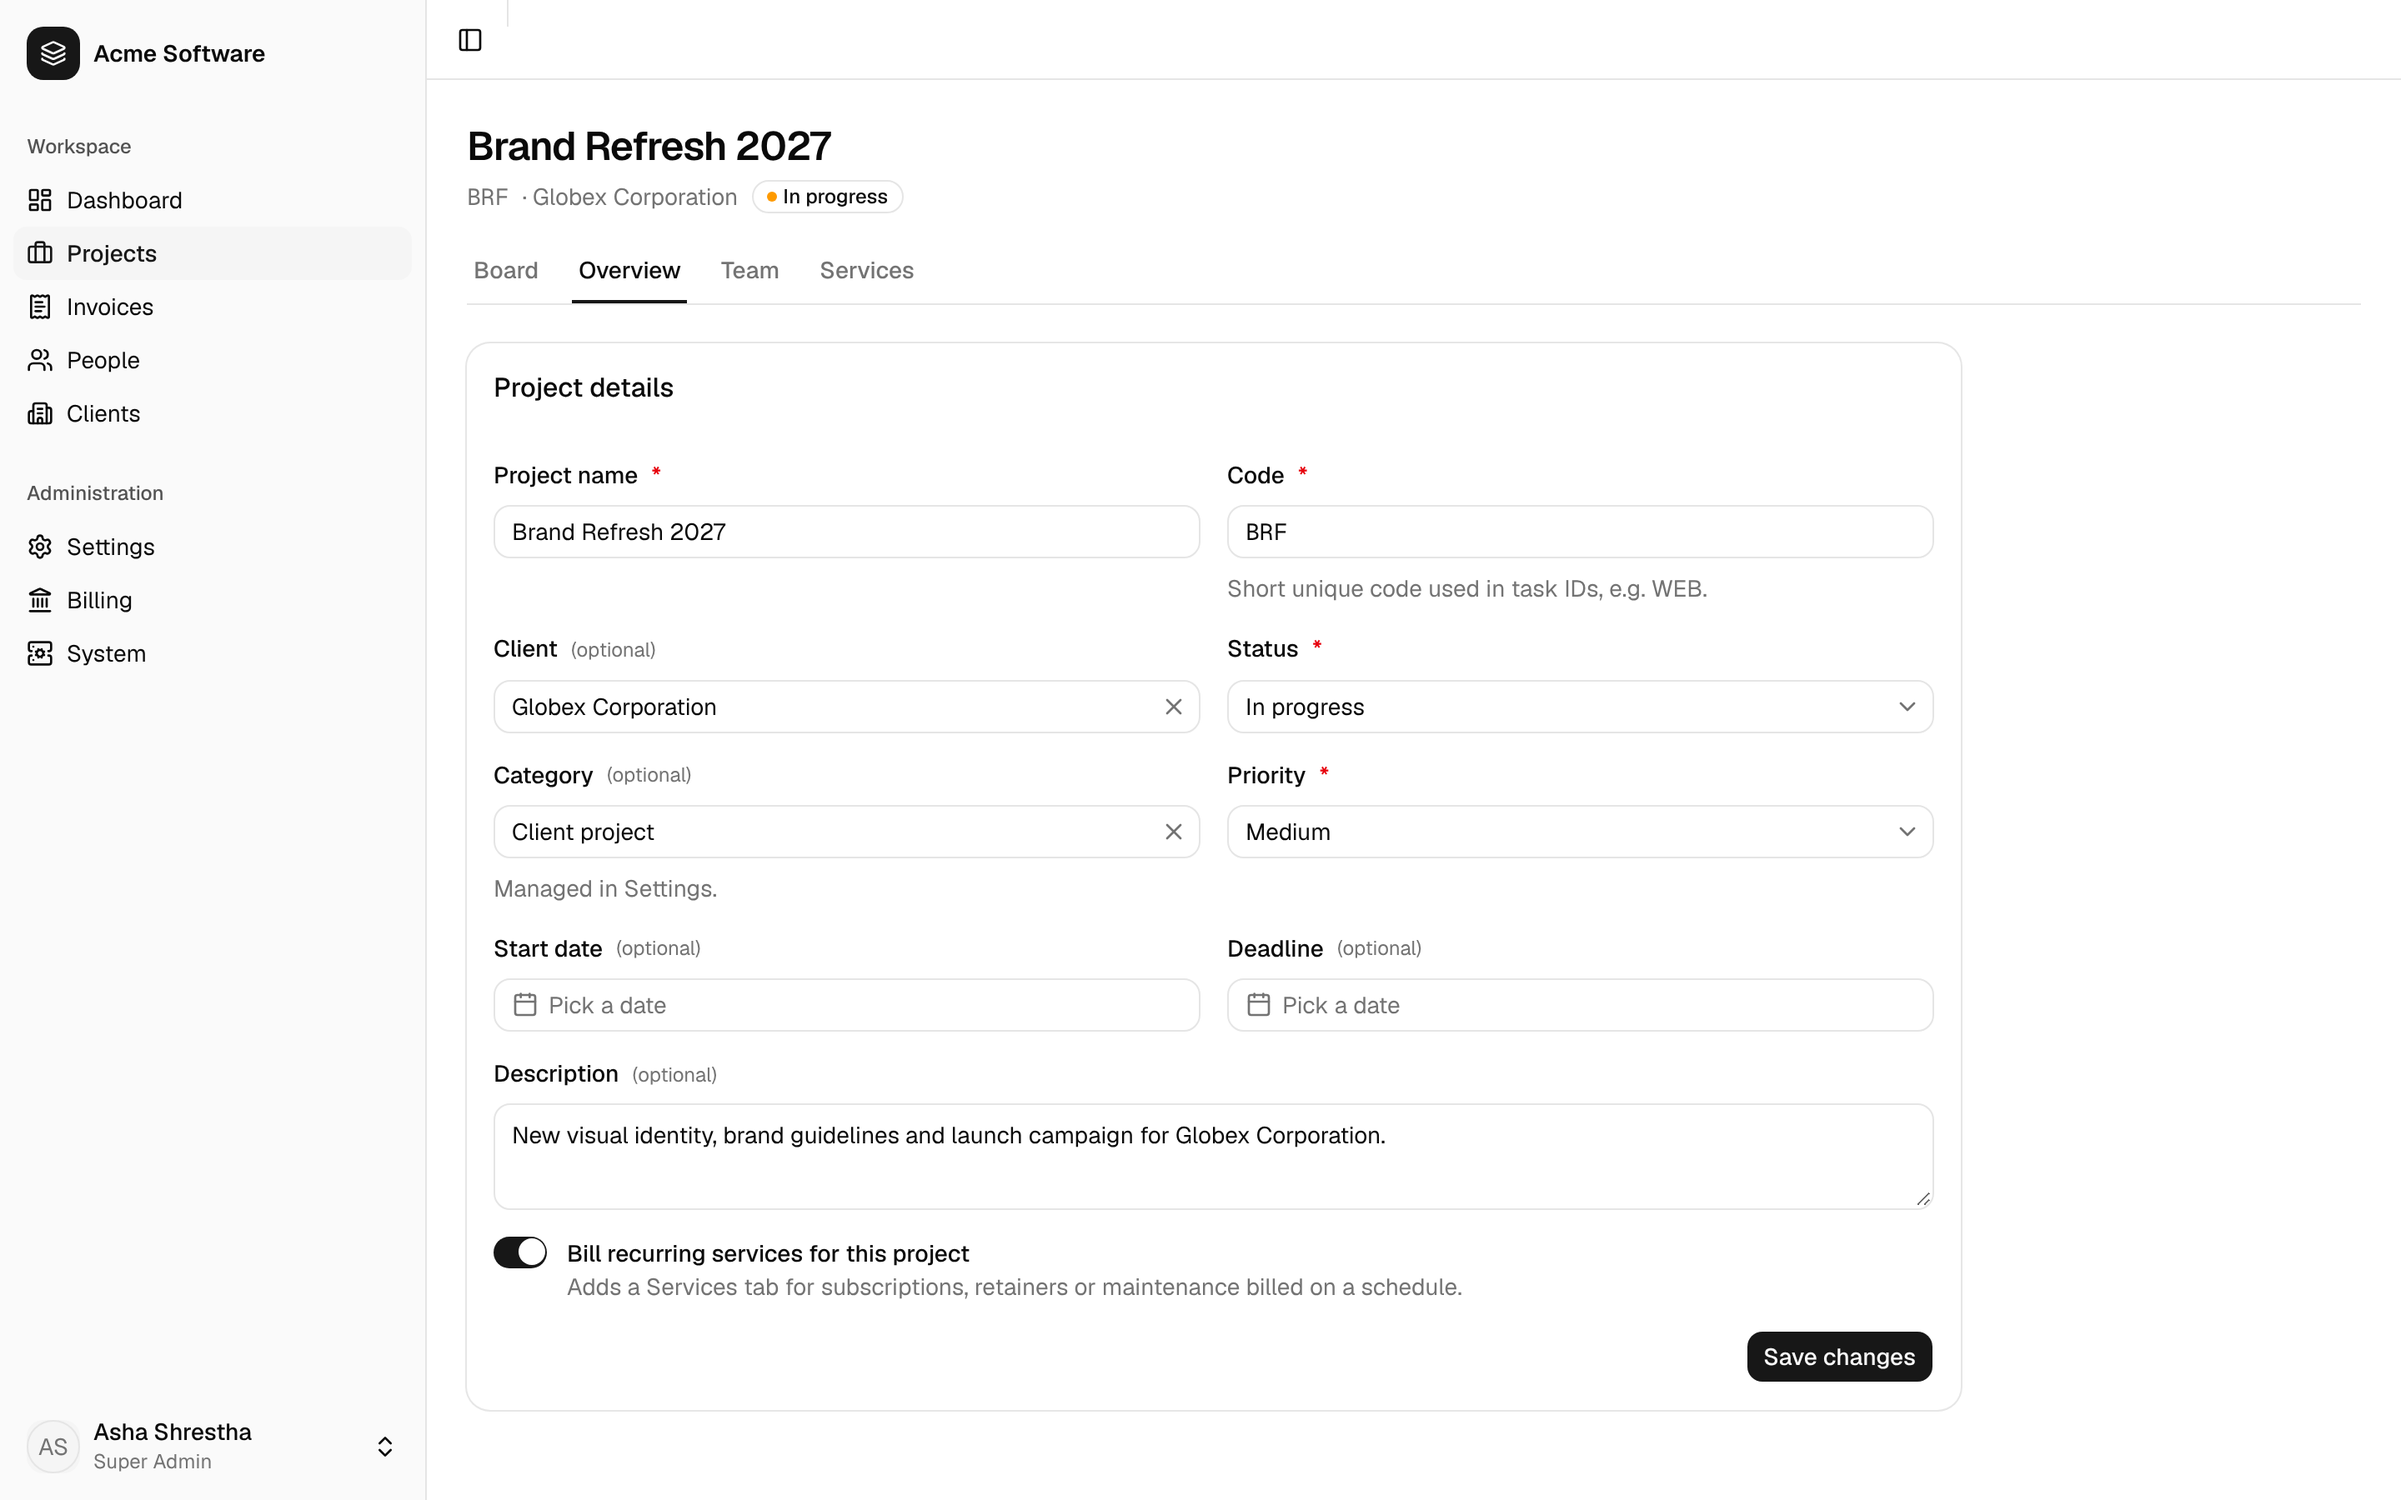
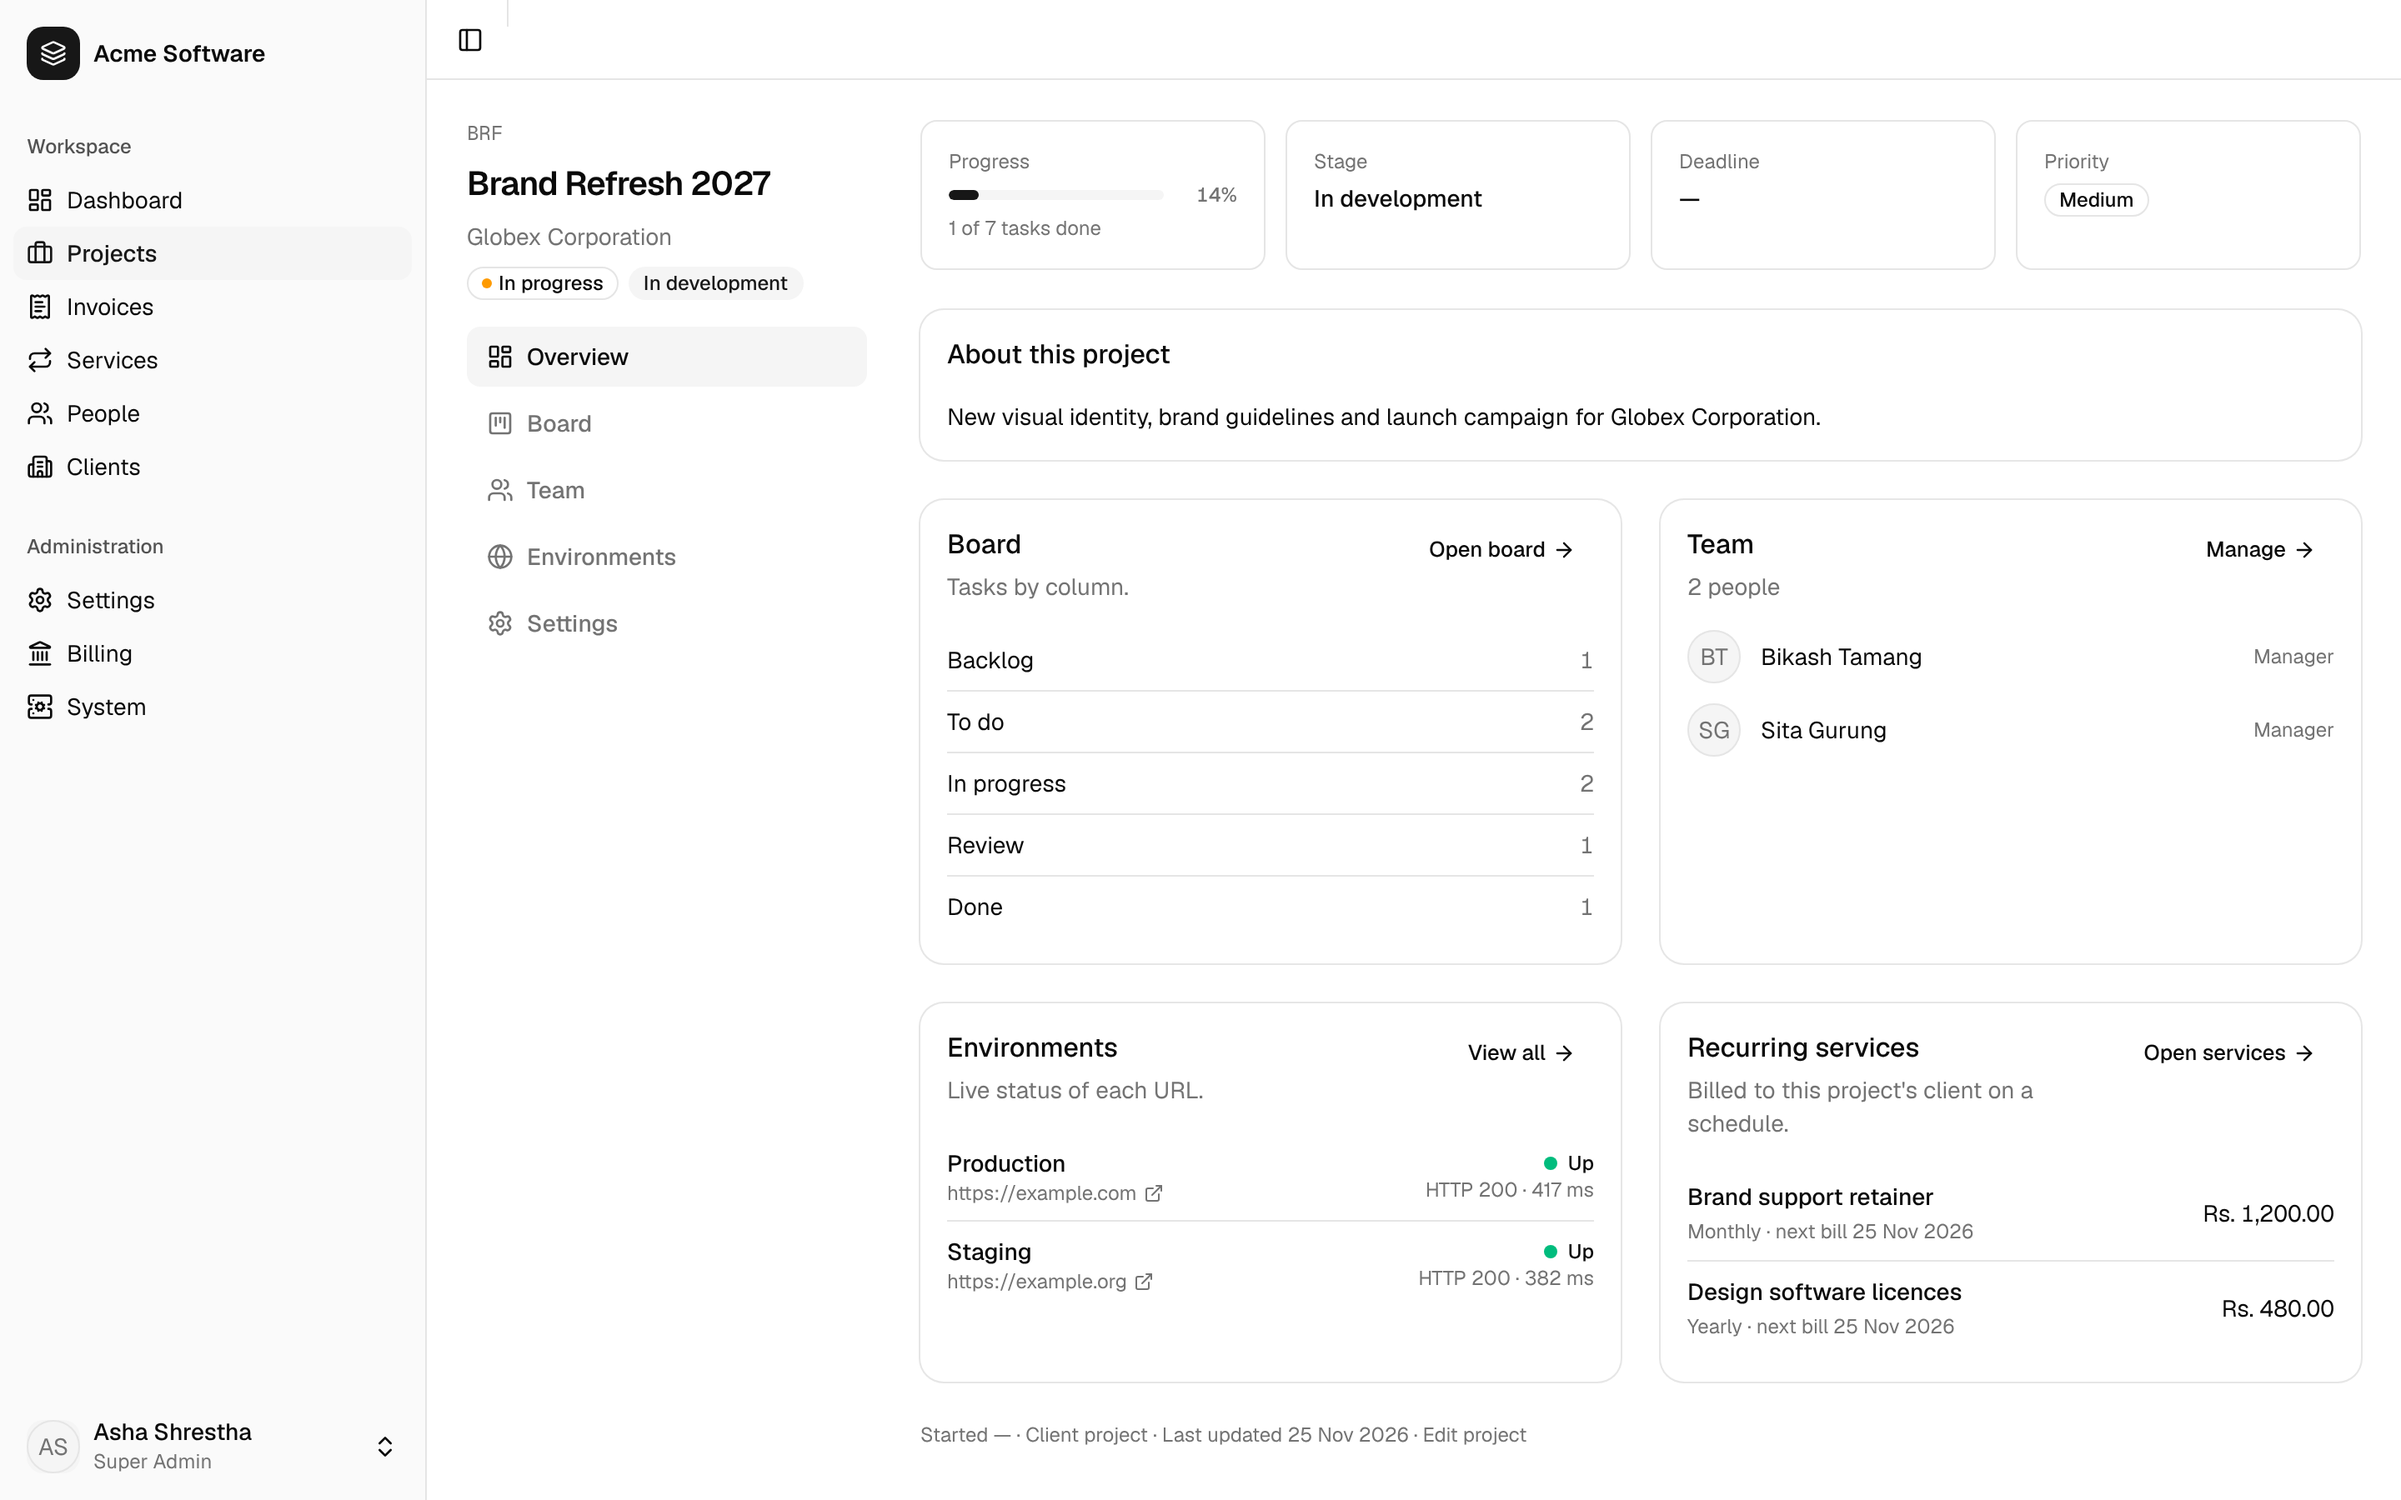
docs: describe the project workspace, environments and services page

diff --git a/README.md b/README.md
@@ -14,7 +14,7 @@ Projects and Kanban boards, employees and freelancers, clients with their own po
 
 [Features](#features) · [Screenshots](#screenshots) · [Quick start](#quick-start) · [Deploy](#deploy-on-your-own-server) · [Docs](#documentation) · [Roadmap](#roadmap) · [Contributing](#contributing)
 
-![KaamHub project board](docs/images/board.png)
+![KaamHub project overview](docs/images/project-overview.png)
 
 </div>
 
@@ -39,6 +39,10 @@ Most service businesses run on a patchwork of tools: one for tasks, a spreadshee
 ## Features
 
 ### Projects and Kanban boards
+- A **project workspace** with its own side menu: Overview, Board, Team, Environments, Repositories and Settings
+- **Overview** shows progress, stage, deadline, team, live environment status, linked repositories and recurring services together
+- Project **stages** (e.g. In development, Live, Support and maintenance) from your own list
+- A **full-page board**: the main menu collapses and opens as an overlay, so the board gets the whole screen
 - Projects with code, client, type, priority, status, start date and deadline
 - A Kanban board for every project with drag and drop by **mouse, touch or keyboard**
 - Optimistic updates with automatic rollback if the server rejects a move
@@ -63,8 +67,13 @@ Most service businesses run on a patchwork of tools: one for tasks, a spreadshee
 - **A4 PDF** generated on the server, downloadable and emailed to the client with one click
 - Clients see their invoices in the portal
 
+### Websites and environments
+- Production, staging and development environments per project, with URL and branch
+- Hosting provider, domain registrar, and **domain and hosting expiry dates** with reminders
+- **Uptime checks** every hour, with HTTP status and response time, plus a "Check now" button
+
 ### Recurring services
-- Turn on recurring billing for any project
+- One **Services** page for every subscription, retainer and maintenance plan, with search and filters by status, billing cycle, type and project
 - Track subscriptions, retainers, support plans or maintenance per project, with supplier and renewal date
 - Service types are your own list, managed in Settings
 - Monthly, quarterly, half-yearly or yearly billing; **draft invoices are created automatically** before each period, never twice
@@ -89,8 +98,8 @@ Most service businesses run on a patchwork of tools: one for tasks, a spreadshee
 - A webhook keeps the repository list in sync
 
 ### Modules and categories
-- Switch **Clients**, **Invoices**, **Recurring services** and **GitHub** on or off; disabled modules disappear from the app and their data is kept
-- Your own **project categories** and **service types**
+- Switch **Clients**, **Invoices**, **Recurring services**, **Websites and environments** and **GitHub** on or off; disabled modules disappear from the app and their data is kept
+- Your own **project categories**, **project stages** and **service types**
 - Generic project roles: **Manager**, **Member** and **Viewer**
 
 ### Administration
@@ -122,13 +131,17 @@ Most service businesses run on a patchwork of tools: one for tasks, a spreadshee
 |---|---|
 | ![Invoice editor](docs/images/invoice-new.png) | ![Invoice PDF](docs/images/invoice-pdf.png) |
 
-| Billing settings | Recurring services |
+| Billing settings | |
 |---|---|
-| ![Billing settings](docs/images/billing-settings.png) | ![Recurring services](docs/images/services.png) |
+| ![Billing settings](docs/images/billing-settings.png) | |
 
-| Project overview | People with facet filters |
+| Full-page board | Environments with uptime |
 |---|---|
-| ![Project overview](docs/images/project-overview.png) | ![People](docs/images/people.png) |
+| ![Board](docs/images/board.png) | ![Environments](docs/images/environments.png) |
+
+| People with facet filters | Services |
+|---|---|
+| ![People](docs/images/people.png) | ![Services](docs/images/services.png) |
 
 ---
 

diff --git a/docs/billing.md b/docs/billing.md
@@ -75,18 +75,18 @@ If the currency changes after a draft was saved, KaamHub asks you to save the dr
 
 ## Recurring services
 
-Turn on **Bill recurring services for this project** on the project. A **Services** tab appears (the Recurring services module must be on).
+Open **Services** in the sidebar (the Recurring services module must be on). Every recurring service is listed there, with search and filters by status, billing cycle, type and project. A project's overview also lists its services.
 
-For each service, record the type (from your own list in Settings), name, supplier, renewal date with the provider, amount before tax, billing cycle (monthly, quarterly, every 6 months or yearly) and the next billing date.
+For each service, choose the project (its client is billed) and record the type (from your own list in Settings), name, supplier, renewal date with the provider, amount before tax, billing cycle (monthly, quarterly, every 6 months or yearly) and the next billing date.
 
 - **Recurring drafts**: every day, KaamHub creates a draft invoice for each active service due within the configured lead time and moves its next billing date forward one cycle. Each billing period is invoiced only once, guaranteed by a database constraint.
 - **Taxes on recurring drafts**: drafts start without taxes. Add the taxes that apply while reviewing the draft, then issue it.
-- **Bill next period**: create the next draft immediately from the Services tab.
+- **Bill next period**: create the next draft immediately from the row menu on the Services page.
 - **Renewal reminders**: admins get an email 30, 7 and 1 day before a service expires with its provider, and the dashboard lists renewals due within 30 days.
 
 ### Scheduling the daily job
 
-The daily job runs at `POST /api/cron/daily` and requires `Authorization: Bearer <CRON_SECRET>`.
+The scheduled job (hourly with the provided stack) prepares recurring drafts, sends reminders once a day and checks environment uptime. It runs at `POST /api/cron/daily` and requires `Authorization: Bearer <CRON_SECRET>`.
 
 With the provided Docker Compose stack, the updater service calls the job every hour once `CRON_SECRET` is set; the job is safe to run repeatedly. Without the updater, call it from any scheduler:
 
